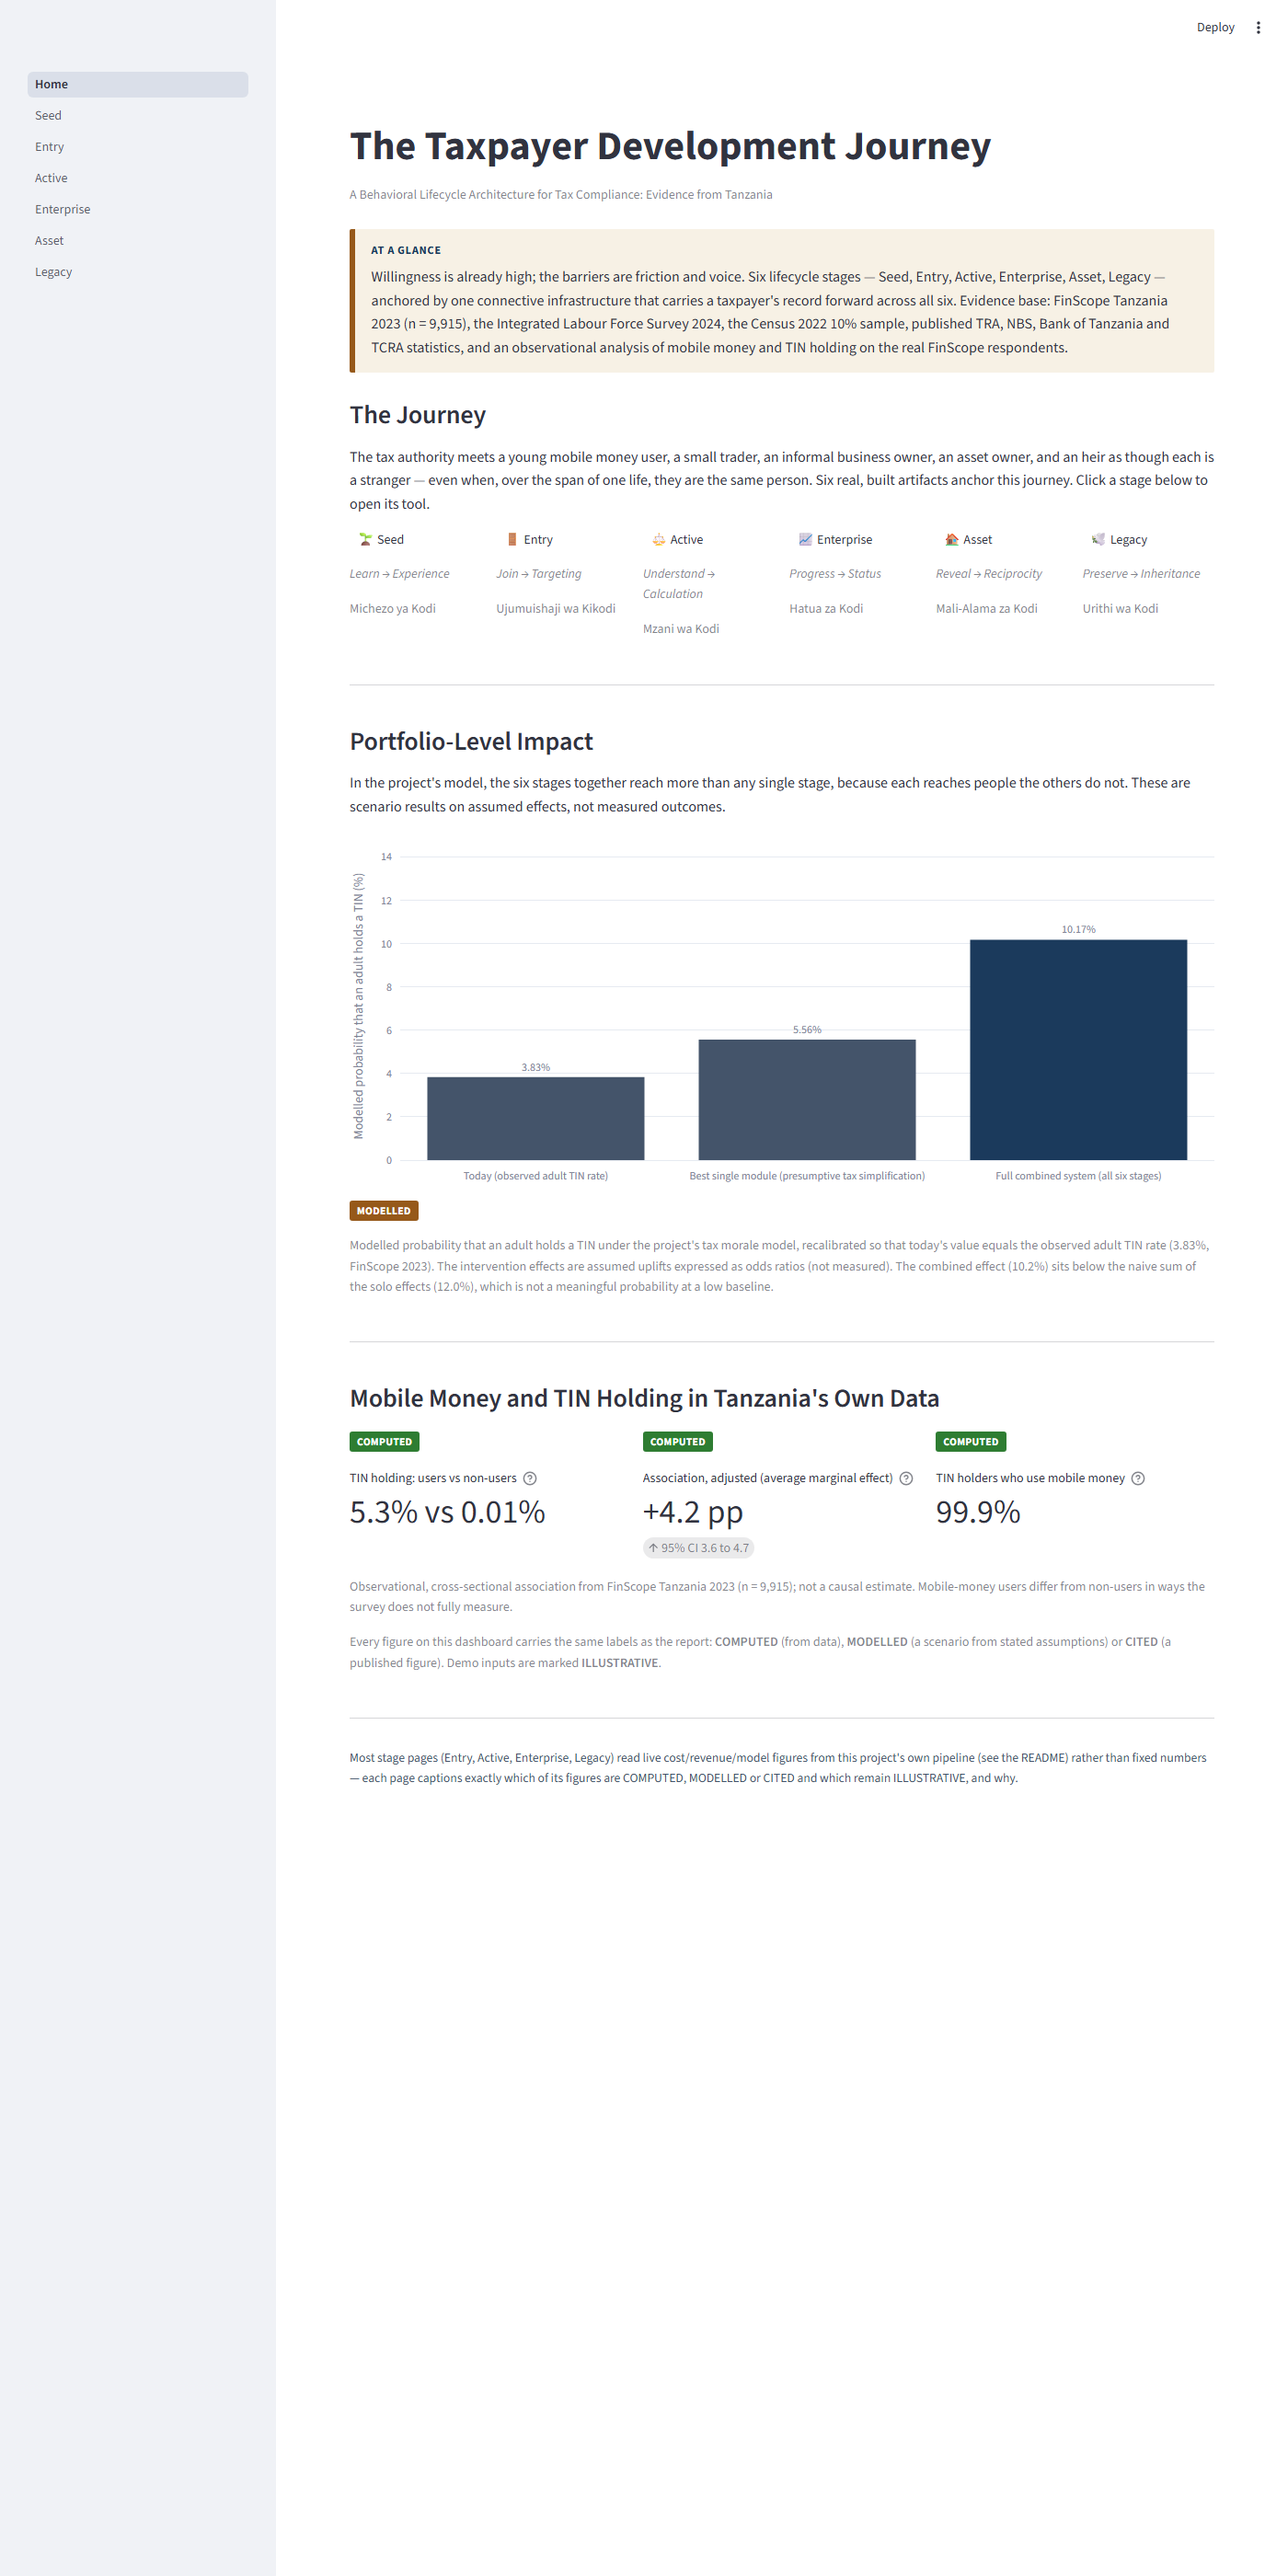
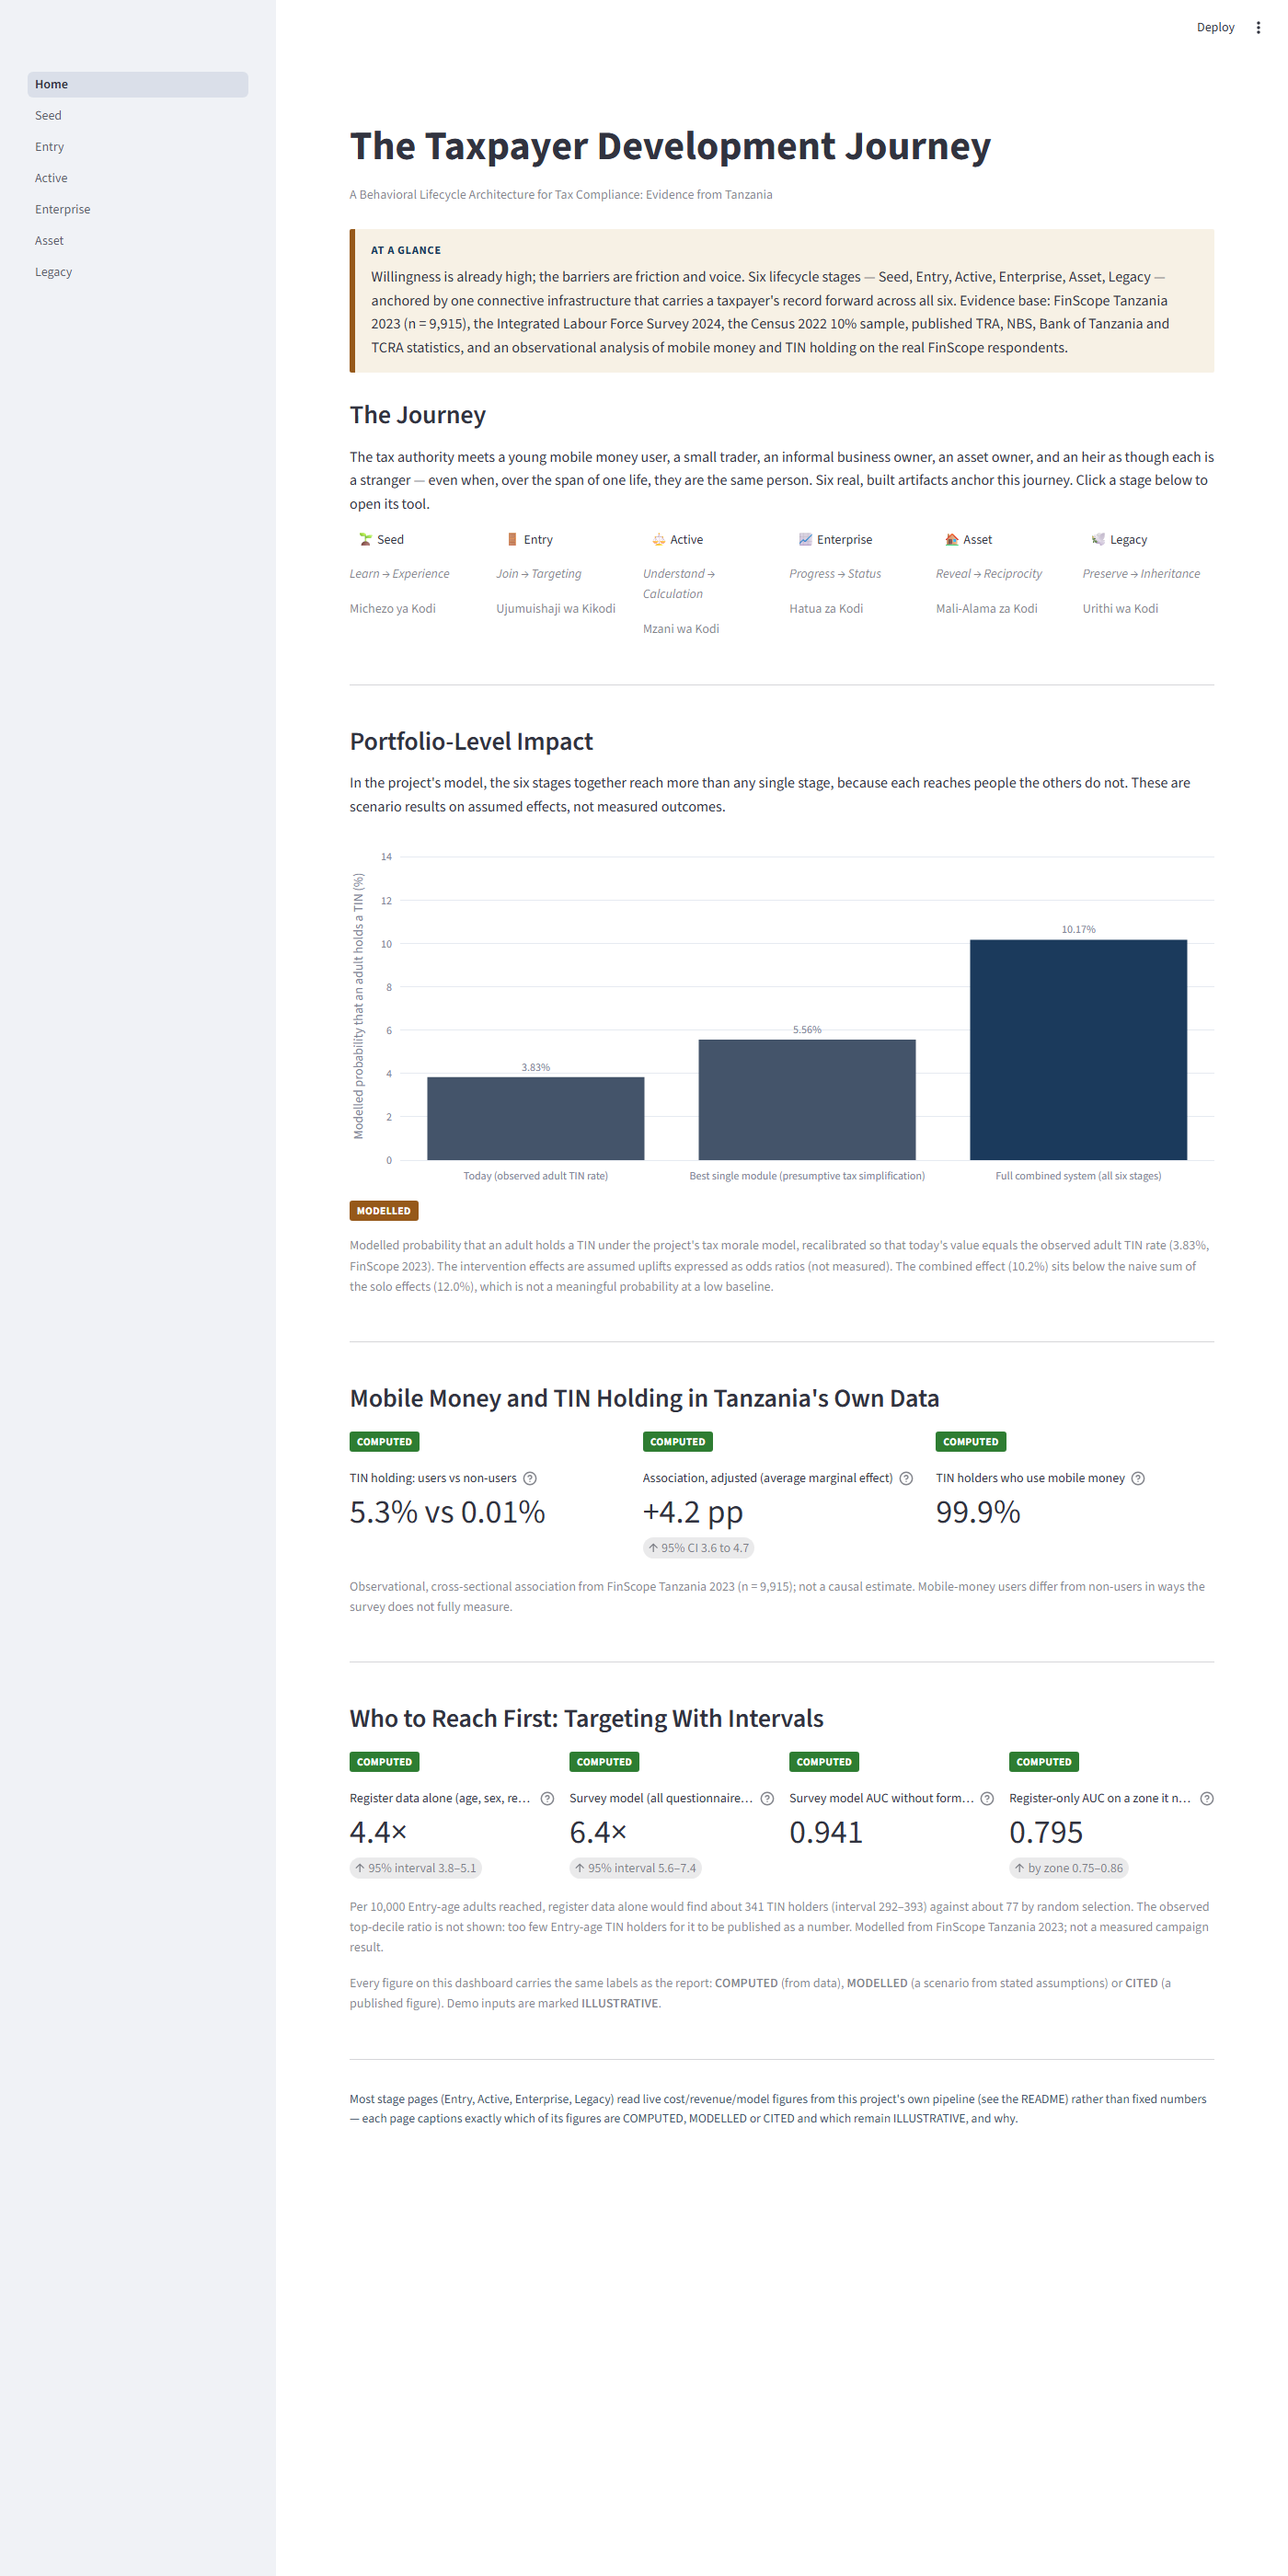
H9: dashboard numbers from the regenerated outputs, pending dashboard text, launch check on every page
Stage cards (Entry, Active, Enterprise, Legacy) show the central case, the bracket of the median (HBS all owners to ILFS gross), the revenue per registrant and P(ROI >= 1);
Mzani wa Kodi shows lower quartile, median and upper quartile in shillings. docs/pending_dashboard_text.csv lists the stage-definition and old-value strings for the owner
(nothing rewritten). The dashboard was launched locally: all seven pages load with no Streamlit exception and show the new figures; screenshots regenerated.

diff --git a/src/tools/list_dashboard_text.py b/src/tools/list_dashboard_text.py
@@ -1,0 +1,54 @@
+"""Pass 6B-1 (H9): lists the dashboard strings that state a stage definition or a value of the former stage mapping / former Table 40, for the owner's text pass. It rewrites NOTHING.
+
+Scans dashboard/Home.py, dashboard/common.py, dashboard/pages/*.py and dashboard/tdj_lib/*.py for: stage-definition wording (informal / registered business owners, ages 25-44 / 25-64, Active and Enterprise
+as groups), the former populations and rates (12.1M, 3.49M, 4.6%, 9.7%), the former Table 40 values and the retired twin. Writes docs/pending_dashboard_text.csv: file, line, text, why_listed.
+Run:  python src/tools/list_dashboard_text.py
+"""
+import csv
+import glob
+import os
+import re
+import sys
+
+HERE = os.path.dirname(os.path.abspath(__file__))
+sys.path.insert(0, os.path.dirname(HERE))  # src/
+import paths  # noqa: E402
+
+RULES = [
+    (r"12[.,]1\d*\s?M|12,110", "former Active population (non-owners 25-44, now Workers 25-44)"),
+    (r"3[.,]49\s?M|3,488", "former Enterprise population (all business owners 25-64)"),
+    (r"\b4\.6\s?%|\b9\.7\s?%|9\.74", "former Active / Enterprise TIN rate (stage mapping A)"),
+    (r"25\s?[–-]\s?44|ages? 25|aged 25", "age band of the former Active stage / stage definition"),
+    (r"informal (business|worker|trader|owner)|registered (business|owner)|business owners?\b", "stage-definition wording (Active = informal owners, Enterprise = owners with a formal step under mapping B)"),
+    (r"digital twin|\btwin\b", "retired digital twin"),
+    (r"\b3\.23|20\.7|21\.3|\b8\.7\b|12\.8-13B|\b5\.5x|\b3\.6x", "former Table 40 value"),
+    (r"FinScope has no income|no income or turnover variable|strand", "former Mzani wa Kodi wording (FinScope access strand bridge)"),
+    (r"Figure 5\.[234]|Fig\.? 5\.[234]", "figure reference whose content changed (5.2 reach scenarios, 5.3 bracket, 5.4 tornado)"),
+]
+
+
+def main():
+    files = [os.path.join(paths.ROOT, "dashboard", "Home.py"), os.path.join(paths.ROOT, "dashboard", "common.py")] + sorted(glob.glob(os.path.join(paths.ROOT, "dashboard", "pages", "*.py"))) + sorted(glob.glob(os.path.join(paths.ROOT, "dashboard", "tdj_lib", "*.py")))
+    rows = []
+    for f in files:
+        with open(f, encoding="utf-8") as fh:
+            for i, line in enumerate(fh, 1):
+                s = line.strip()
+                if not s or s.startswith("#"):
+                    continue
+                if not re.search(r"[\"']", s):
+                    continue                                      # only lines that carry a string
+                for pat, why in RULES:
+                    if re.search(pat, s, re.I):
+                        rows.append({"file": os.path.relpath(f, paths.ROOT).replace(os.sep, "/"), "line": i, "text": s[:240], "why_listed": why})
+                        break
+    out = os.path.join(paths.ROOT, "docs", "pending_dashboard_text.csv")
+    with open(out, "w", encoding="utf-8-sig", newline="") as fh:
+        wr = csv.DictWriter(fh, fieldnames=["file", "line", "text", "why_listed"], lineterminator="\r\n")
+        wr.writeheader()
+        wr.writerows(rows)
+    print("pending_dashboard_text.csv: %d strings in %d files (nothing rewritten)" % (len(rows), len({r["file"] for r in rows})))
+
+
+if __name__ == "__main__":
+    main()

diff --git a/dashboard/tdj_lib/stage_card.py b/dashboard/tdj_lib/stage_card.py
@@ -1,4 +1,5 @@
-"""Cost / revenue / ROI card of a stage, read from outputs/stats/stage_economics.json (Block E2.5, Table 40; 20-year sensitivity added in Block E3.4).
+"""Cost / revenue / ROI card of a stage, read from outputs/stats/stage_economics.json (Block E2.5, Table 40; 20-year sensitivity added in Block E3.4). Since Pass 6B-1 the figures are the CENTRAL case
+(HBS 2017/18 receipts of owners with receipts) with the bracket of the median (HBS all owners ... ILFS gross) for Active and Enterprise, and P(ROI >= 1).
 
 Replaces the typed cost and revenue figures the stage pages used to show (Entry 420M / 8.7-9B / 20.7x, Active 600M / 12.8-13B / 21.3x, Enterprise 750M / 4.1B / ~5.5x,
 Legacy 700M / 2.5B / ~3.6x). The figures are the median and 80% interval of a Monte Carlo over assumed reach, uptake and persistence, with the statutory tax on ILFS
@@ -36,5 +37,13 @@ def show_stage_economics(st, pipeline, stage: str) -> None:
         p90 = s["variants"].get("horizon_20_aged_persistence_0.90", {}).get("0.1", {}).get("roi", {}).get("median")
         st.caption(f"20-year sensitivity (earnings follow the cohort's age path, persistence as signed off): ROI median {r20['median']:.2f}x, 80% interval {r20['p10']:.2f}x to {r20['p90']:.2f}x"
                    + (f"; at persistence 0.90: {p90:.2f}x." if p90 is not None else "."))
+    br = pipeline.stage_economics_bases(stage)
+    if br.available and "revenue_note" not in s:
+        c_, h_, l_ = br.value["central"], br.value["high"], br.value["low"]
+        if stage in ("active", "enterprise"):
+            st.caption(f"Central case: revenue per registrant TZS {c_['revenue_per_registrant_tzs']:,.0f} a year ({c_['share_paying_any_tax_pct']:.1f}% of registrants owe tax; HBS 2017/18 receipts of owners with receipts). "
+                       f"Bracket of the median ROI: {l_['roi_10y']['median']:.2f}x (HBS, all owners) to {h_['roi_10y']['median']:.2f}x (ILFS gross receipts).")
+        if c_.get("p_roi_ge_1") is not None:
+            st.caption(f"Chance the programme pays for itself (ROI >= 1) in the Monte Carlo: {c_['p_roi_ge_1'] * 100:.0f}%.")
     st.caption(f"Mechanism in the report: {s.get('report_name', '')} (internal reference: {s.get('morale_model_key')}).")
-    st.caption("Scenario calculation (MODELLED): statutory tax on survey earnings x reach and uptake (signed-off assumptions), 10% discount rate. Not a forecast.")
+    st.caption("Scenario calculation (MODELLED): statutory tax on survey receipts (revenue per registrant COMPUTED) x reach and uptake (assumptions, sign-off pending), 10% discount rate. Not a forecast.")

diff --git a/dashboard/pages/3_Active.py b/dashboard/pages/3_Active.py
@@ -189,10 +189,11 @@ else:
         evidence_tag(result.evidence_tier)
         st.caption(result.source_label)
 
-        m1, m2, m3 = st.columns(3)
+        m1, m2, m3, m4 = st.columns(4)
         m1.metric("Businesses with receipts in this cell (survey)", result.sample_size)
-        m2.metric("Median yearly turnover", f"TZS {result.median_tzs:,.0f}")
-        m3.metric("Middle half of businesses", f"TZS {result.p25_tzs:,.0f} – {result.p75_tzs:,.0f}")
+        m2.metric("Lower quartile, yearly turnover", f"TZS {result.p25_tzs:,.0f}")
+        m3.metric("Median yearly turnover", f"TZS {result.median_tzs:,.0f}")
+        m4.metric("Upper quartile, yearly turnover", f"TZS {result.p75_tzs:,.0f}")
         if result.low_precision:
             st.caption("⚠ " + result.low_precision_note)
 
